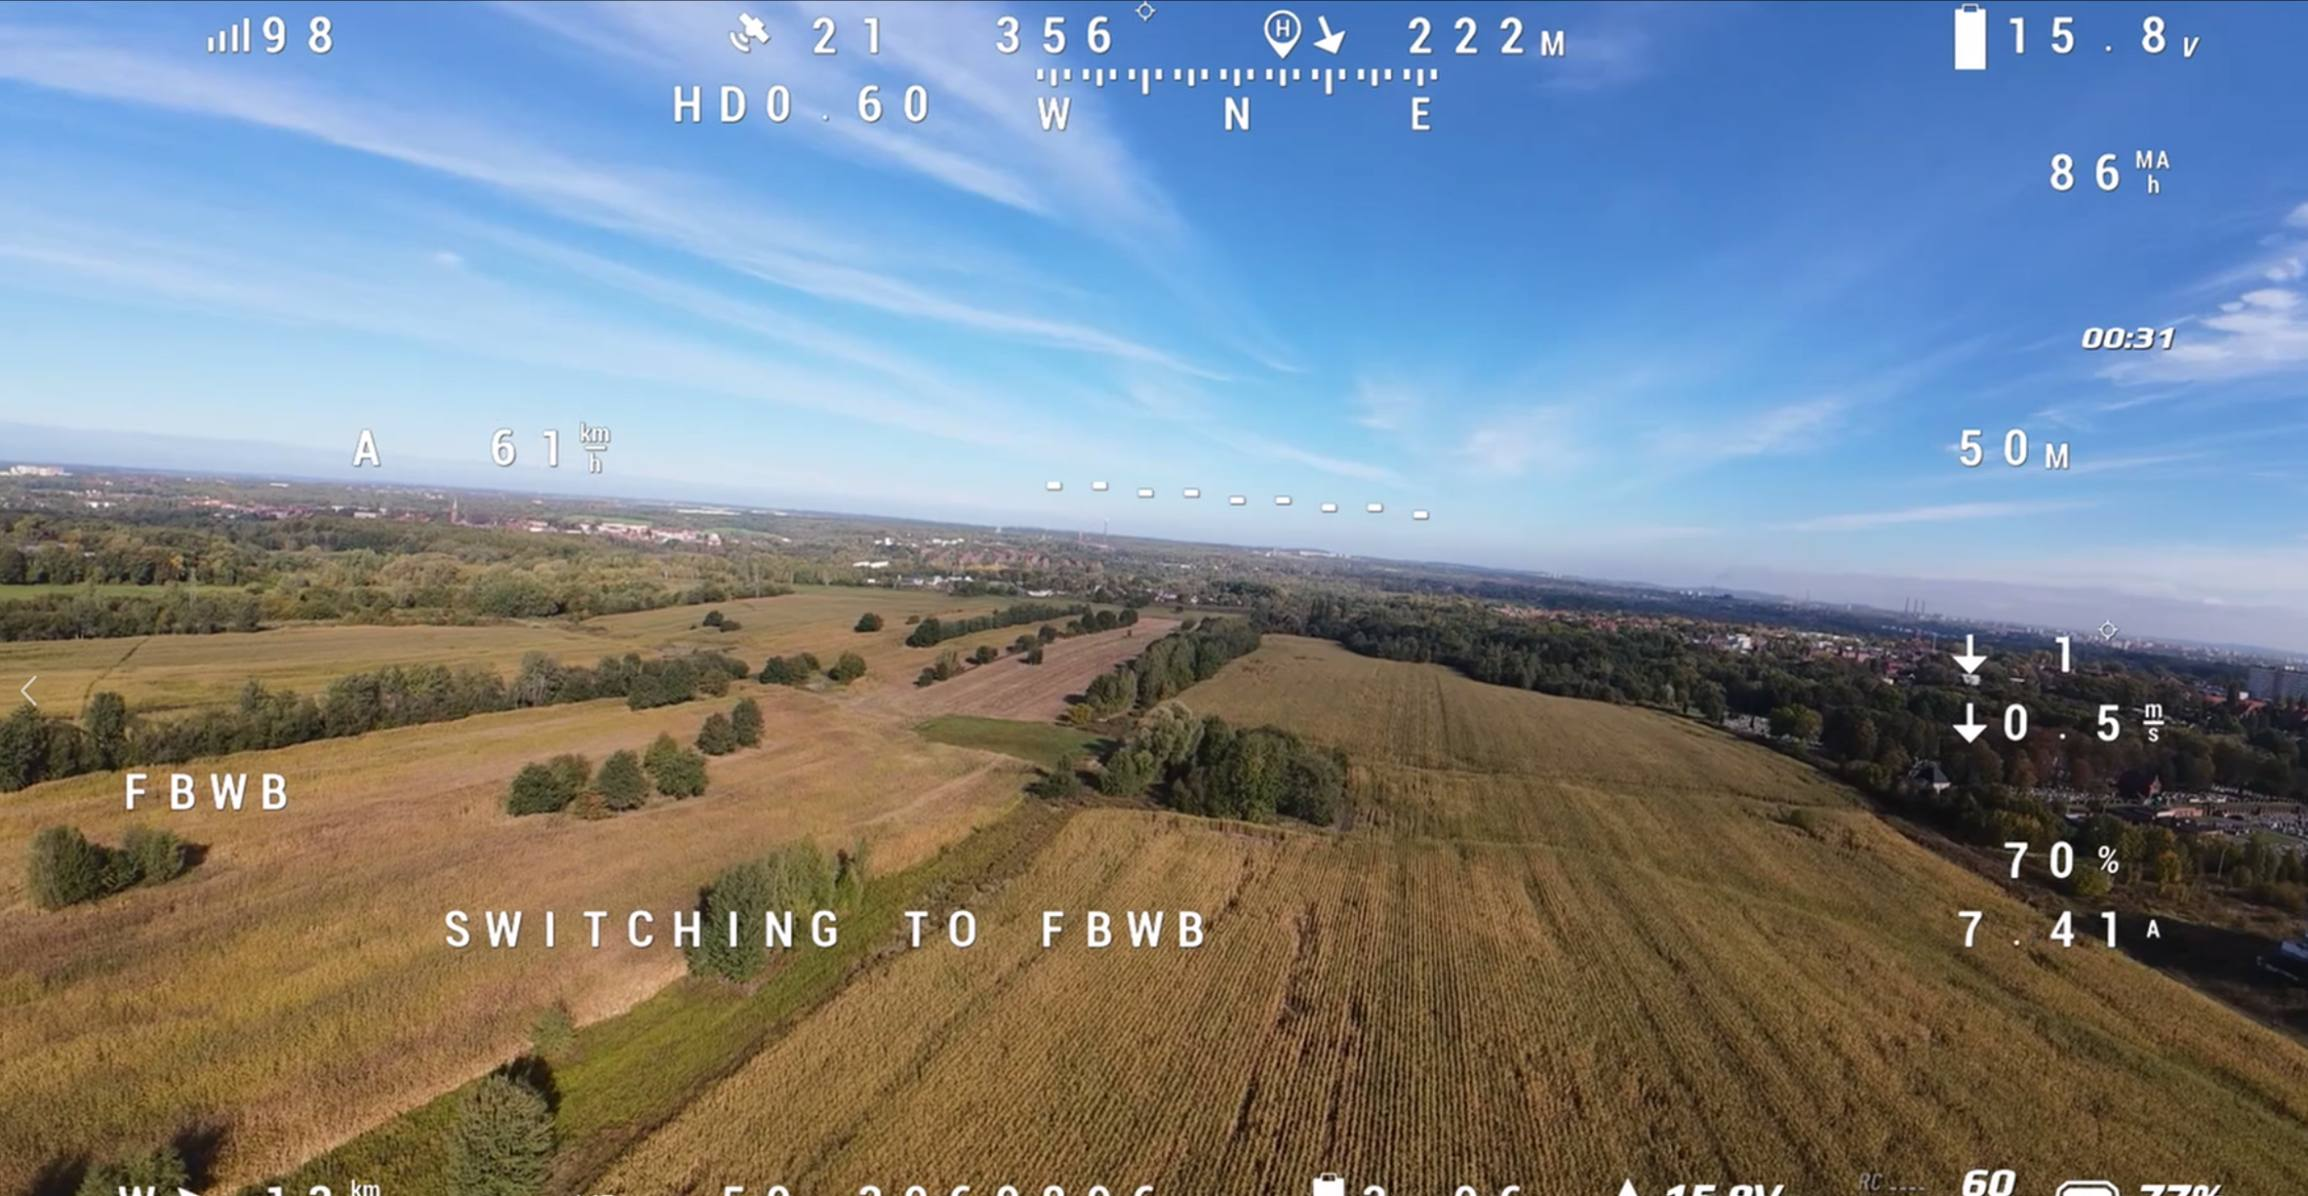
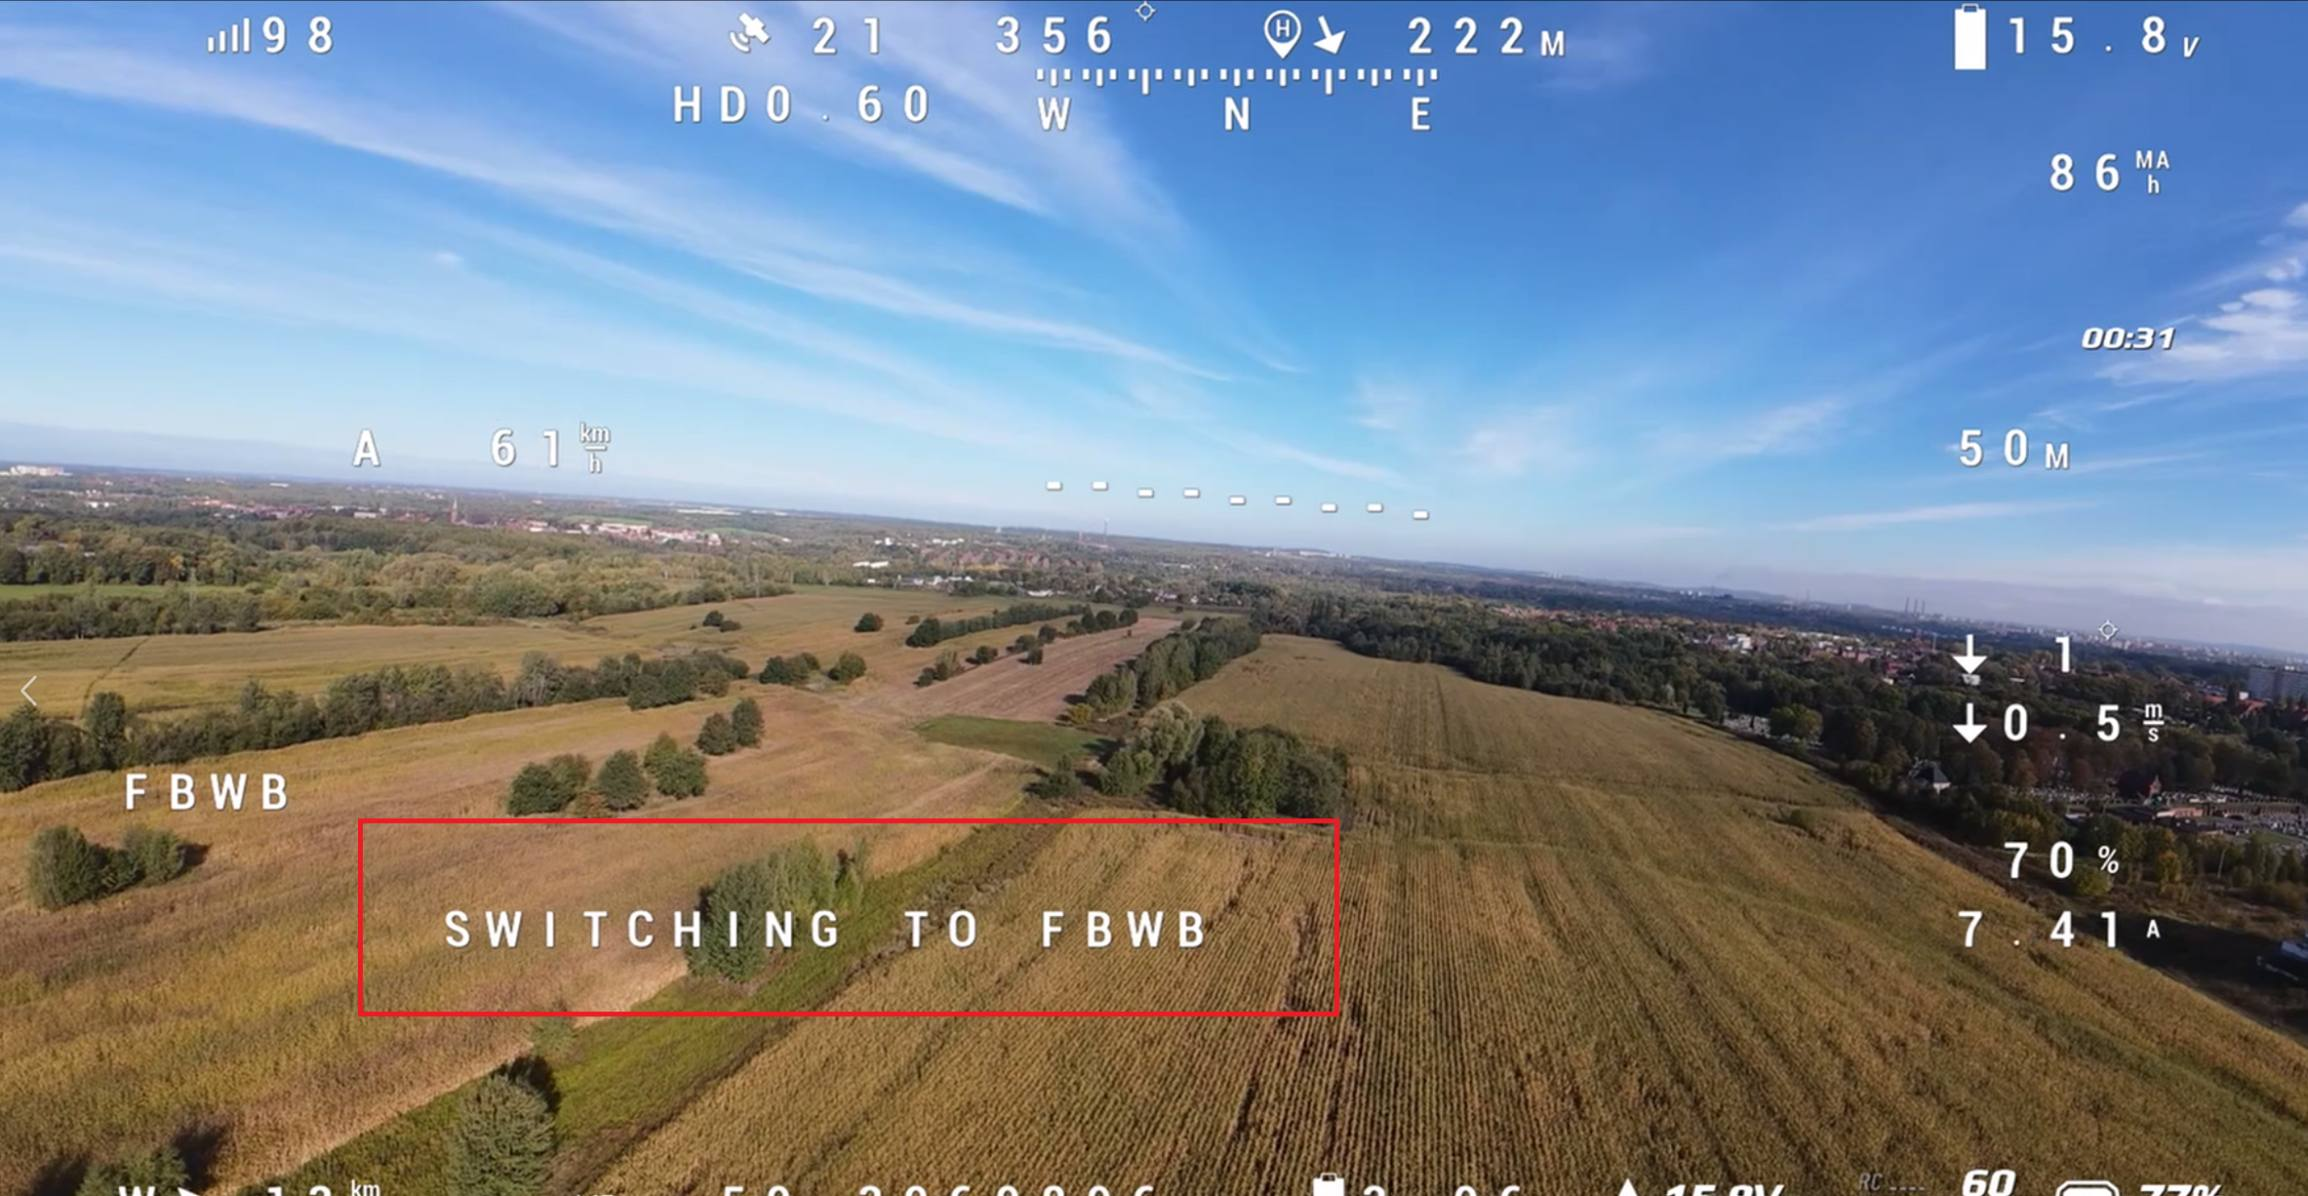
README_CUSTOM: box the handover message in the bit 21 FBWB photo
Claude-Session: https://claude.ai/code/session_01QHAD2CBxLQzGuKw58gtzHo

Changed region(s): [[0.156, 0.8353, 0.5927, 0.8662], [0.156, 0.6806, 0.5927, 0.7115]]

diff --git a/README_CUSTOM.md b/README_CUSTOM.md
@@ -714,7 +714,7 @@ radius or direction control — you are flying the aircraft, with a
 "takeoff complete" for it (it voices any message starting with those
 words), followed by the FBWB mode announcement.
 
-![End of a TAKEOFF-mode climb with bit 21 set: the OSD shows SWITCHING TO FBWB and the flight mode is now FBWB](docs/images/takeoff-fbwb-handover.jpg)
+![End of a TAKEOFF-mode climb with bit 21 set: the OSD shows SWITCHING TO FBWB (boxed) and the flight mode is now FBWB](docs/images/takeoff-fbwb-handover.jpg)
 
 The climb itself is unchanged. `TKOFF_ALT`, `TKOFF_LVL_ALT`,
 `TKOFF_LVL_PITCH` and the launch-cancel window all behave exactly as they
